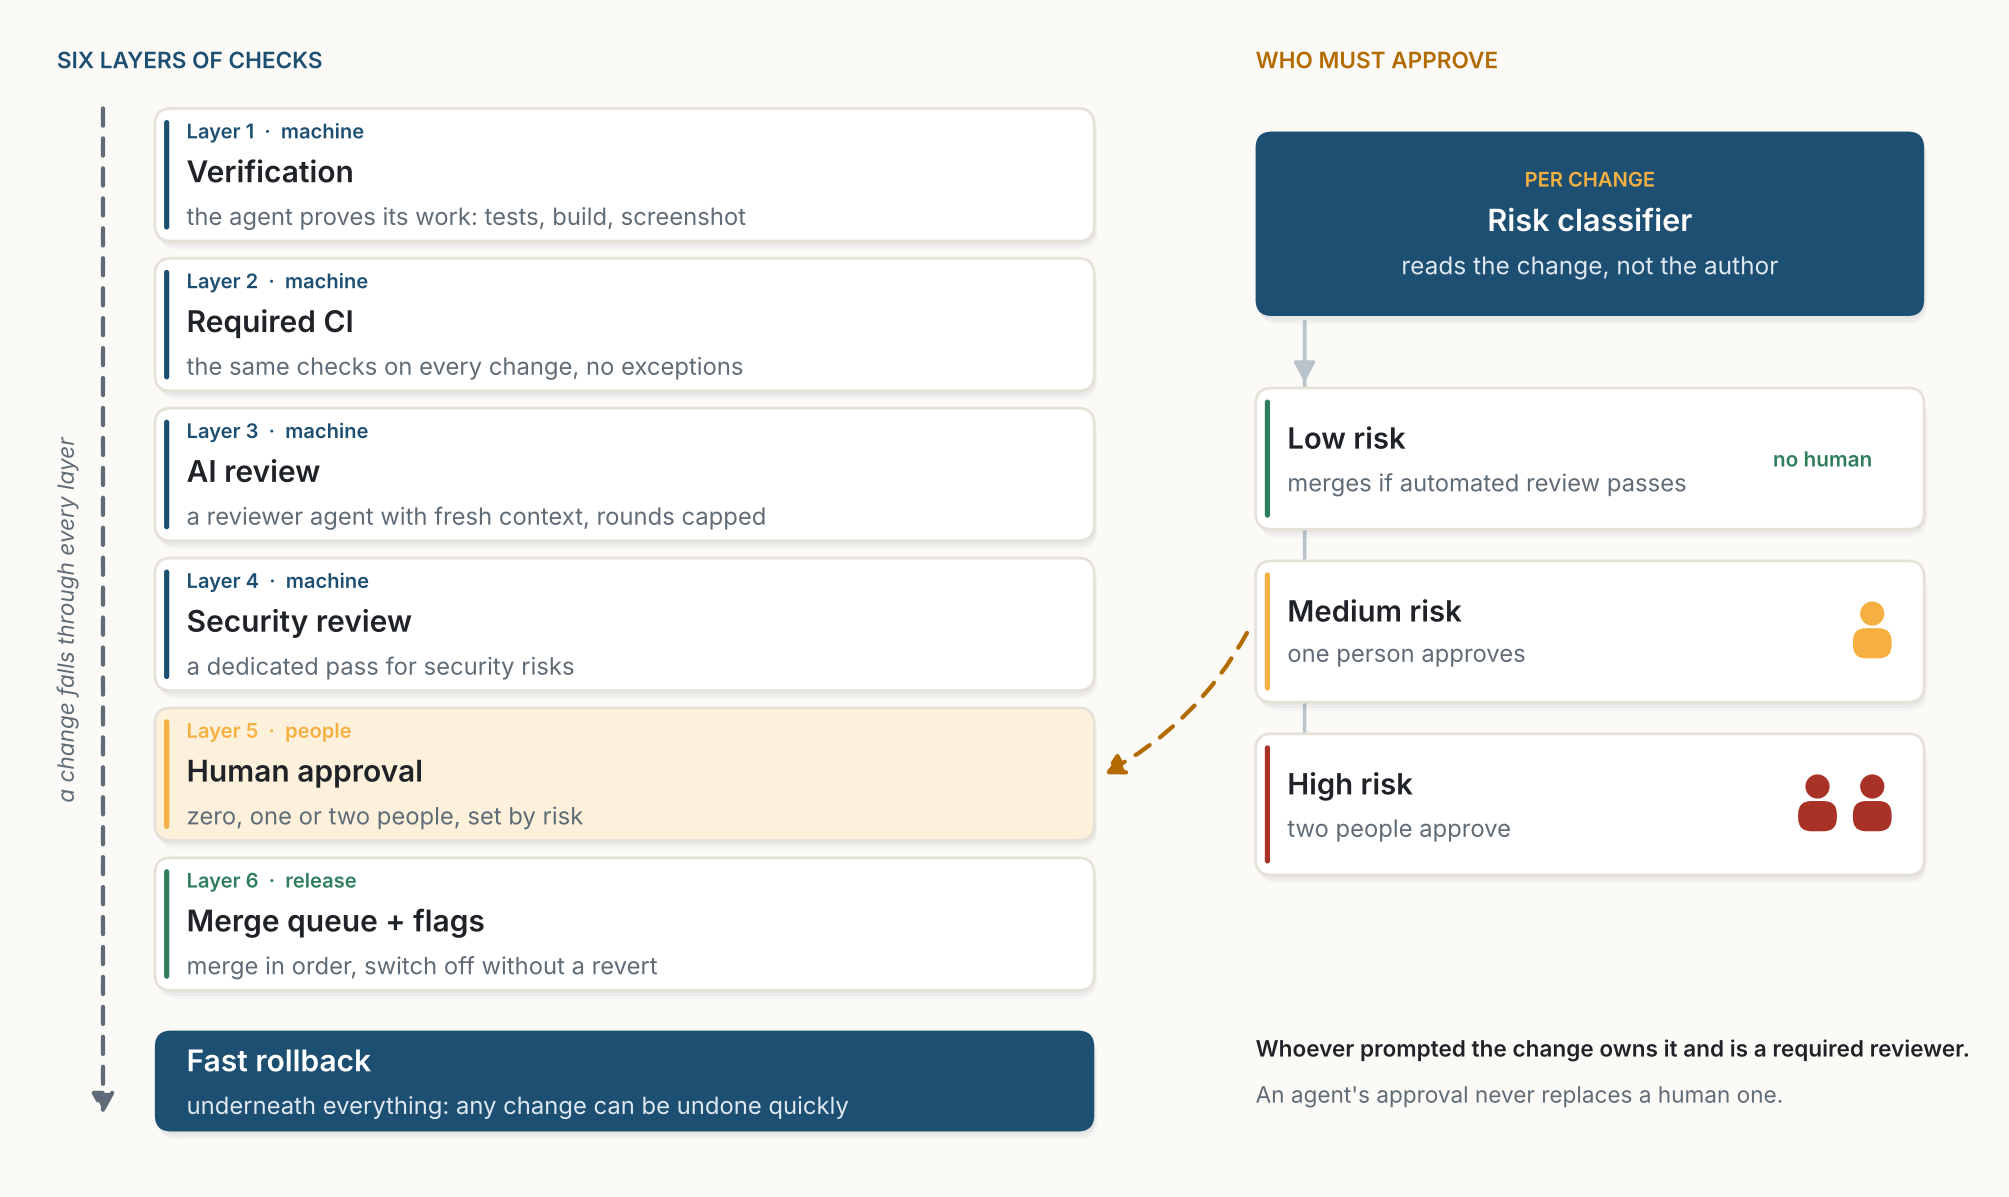
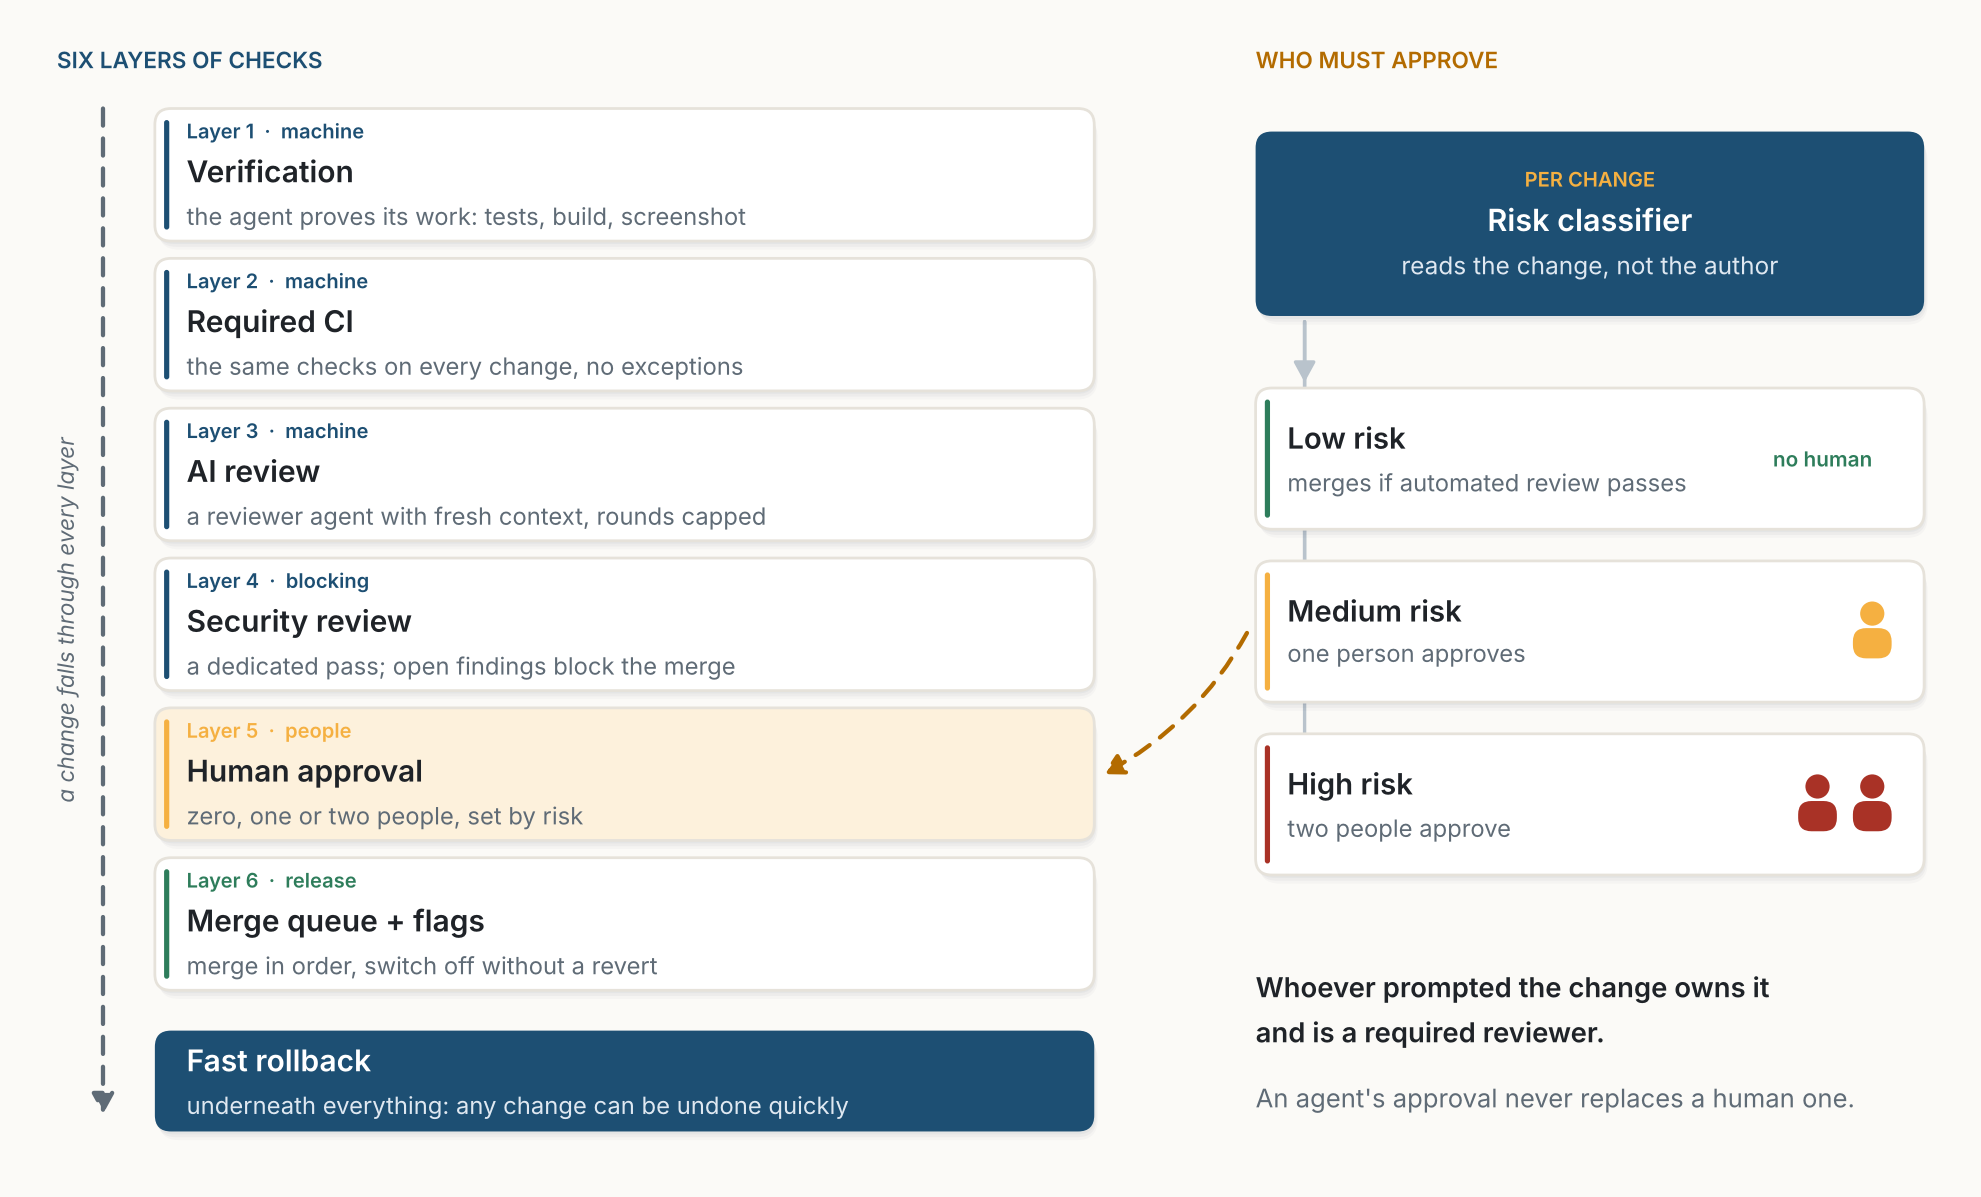
Review the Intent, Not the Diff: address review
Adds what the numbers show and do not, the limit of the assembly
analogy, the rule that changes to the intent always go to a person,
and how teams keep the skill to go deep. Tightens phrasing; enlarges
small figure labels and marks the security layer as blocking.

Claude-Session: https://claude.ai/code/session_017GTBKiUPd9Mu5NmsLv2sEr

diff --git a/posts/2026-10-22-review-the-intent-not-the-diff/figs.py b/posts/2026-10-22-review-the-intent-not-the-diff/figs.py
@@ -192,7 +192,7 @@ def fig_layers():
         ("Verification", "the agent proves its work: tests, build, screenshot", "machine", NAVY),
         ("Required CI", "the same checks on every change, no exceptions", "machine", NAVY),
         ("AI review", "a reviewer agent with fresh context, rounds capped", "machine", NAVY),
-        ("Security review", "a dedicated pass for security risks", "machine", NAVY),
+        ("Security review", "a dedicated pass; open findings block the merge", "blocking", NAVY),
         ("Human approval", "zero, one or two people, set by risk", "people", AMBER),
         ("Merge queue + flags", "merge in order, switch off without a revert", "release", GREEN),
     ]
@@ -232,9 +232,9 @@ def fig_layers():
     # the tiers set layer 5
     y5 = top - 4 * (h + gap) + h / 2
     arrow(ax, (rx - 0.15, 9.1), (x0 + w + 0.15, y5), color=WARM, lw=1.4, ls=(0, (4, 3)), rad=-0.15)
-    ax.text(rx, 1.75, "Whoever prompted the change owns it and is a required reviewer.",
-            fontsize=7.4, color=INK, weight="semibold")
-    ax.text(rx, 0.95, "An agent's approval never replaces a human one.", fontsize=7.4, color=MUTED)
+    ax.text(rx, 3.3, "Whoever prompted the change owns it\nand is a required reviewer.",
+            fontsize=9, color=INK, weight="semibold", va="top", linespacing=1.35)
+    ax.text(rx, 1.3, "An agent's approval never replaces a human one.", fontsize=8.4, color=MUTED, va="top")
     fig.savefig(OUT + "fig02.png"); plt.close(fig)
 
 
@@ -280,11 +280,11 @@ def fig_intent():
     pill(ax, 8.0, 8.4, "agents follow it", color=NAVY, fs=7.6)
     arrow(ax, (22.6, 6.55), (22.6, 10.25), color=AMBER, lw=1.6)
     pill(ax, 22.6, 8.4, "review checks the diff against it", color=WARM, fs=7.6)
-    ax.text(15.3, 8.4, "the team reads, discusses\nand evolves the top", ha="center", va="center",
-            fontsize=7.4, color=MUTED, style="italic", linespacing=1.35)
+    ax.text(15.3, 8.4, "a change to the intent\nalways goes to a person", ha="center", va="center",
+            fontsize=8.2, color=INK, weight="semibold", linespacing=1.35)
     # abstractions leak: in an incident someone goes deep
     arrow(ax, (31.9, 16.6), (31.9, 1.2), color=RED, lw=1.4, ls=(0, (4, 3)))
-    ax.text(32.25, 8.9, "incident: someone goes deep", rotation=-90, fontsize=7.2, color=RED,
+    ax.text(32.45, 8.9, "incident: someone goes deep", rotation=-90, fontsize=9, color=RED,
             va="center", ha="center", weight="medium")
     fig.savefig(OUT + "fig03.png"); plt.close(fig)
 
